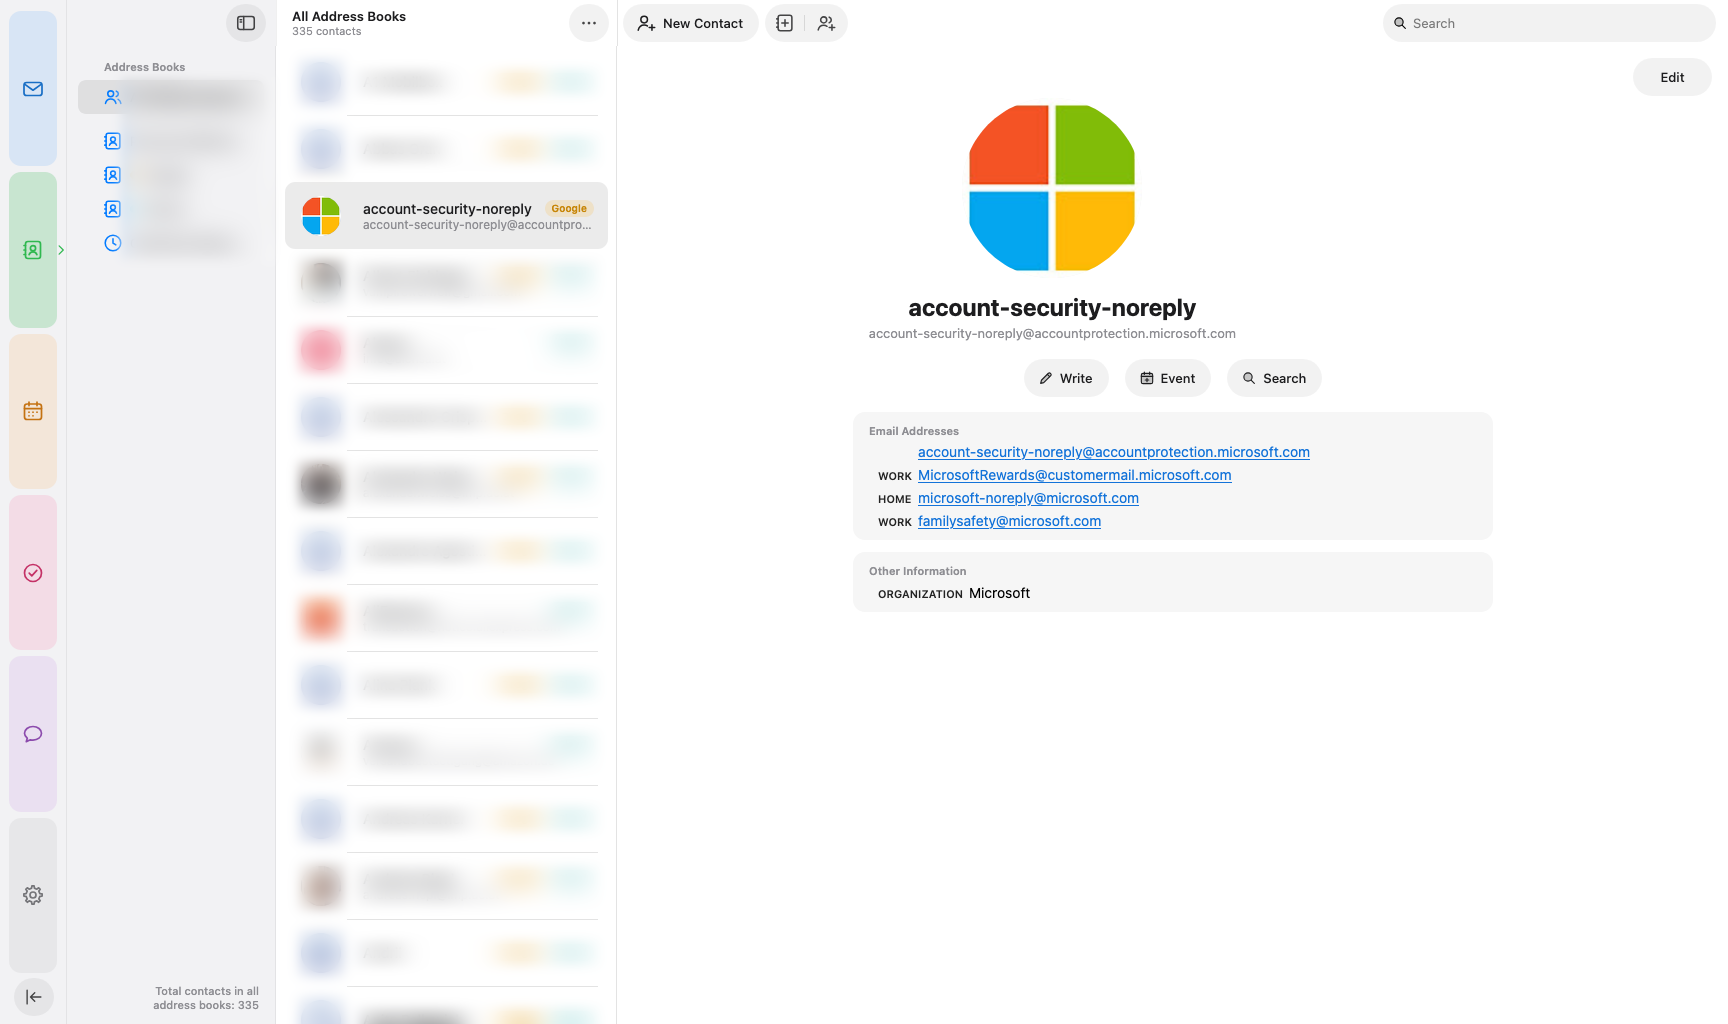
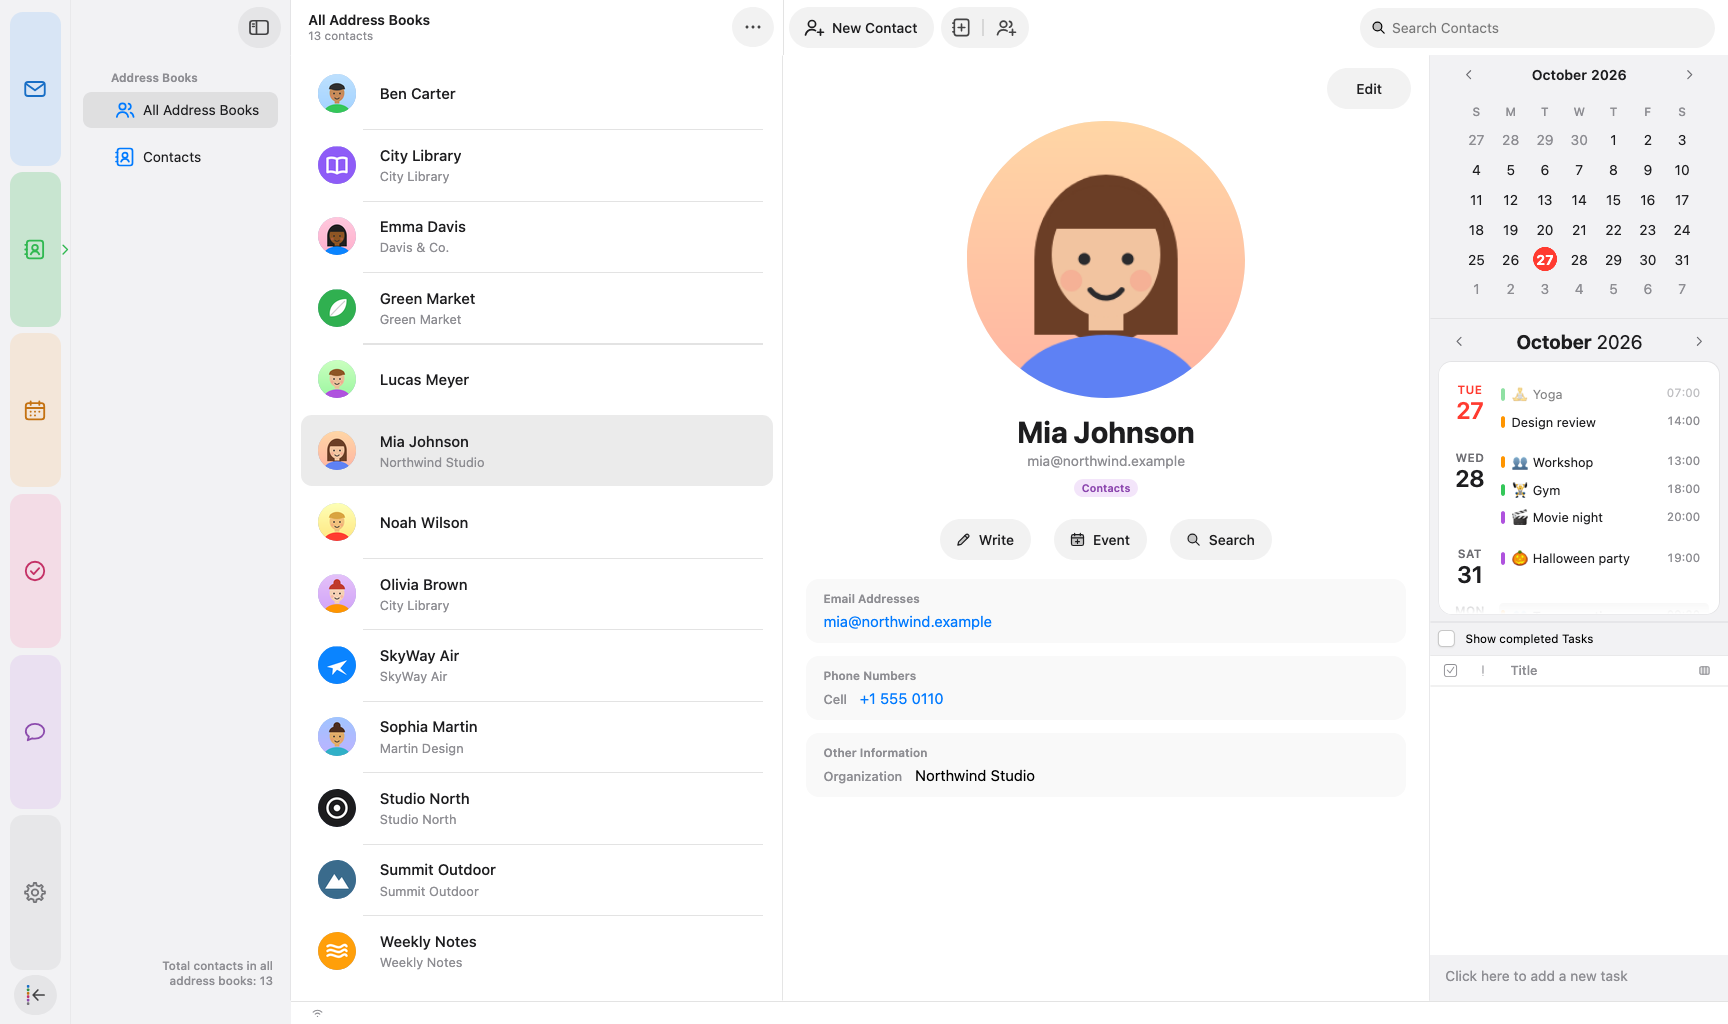
README und Store: neue Bilder aus einem Testprofil mit erfundenen Mails, Kontakten mit gezeichneten Absenderbildern und Terminen; Skript tests/store_shots.py erzeugt sie neu

diff --git a/tests/store_shots.py b/tests/store_shots.py
@@ -1,0 +1,227 @@
+#!/usr/bin/env python3
+"""Bilder für Store und README aus einem frischen Testprofil mit erfundenen,
+englischen Beispieldaten (Mails, Kontakte, Termine) – nie echte Daten.
+
+    python3 tests/store_shots.py --port 2852 [--dark] [--out /tmp/bilder]
+
+Ergebnis: mail.png, calendar.png, addressbook.png in 1728 × 1024 (README) und
+dieselben als store-*.png in 1280 × 759 (Store). Fenster 1620 × 960, das Bild
+wird auf 1728 × 1024 hochgerechnet (passt auf den 1080-px-Bildschirm des Testrechners).
+"""
+
+import argparse
+import base64
+import os
+import shutil
+import subprocess
+import sys
+import time
+
+sys.path.insert(0, os.path.dirname(os.path.abspath(__file__)))
+import halo_test as ht  # noqa: E402
+
+ROOT = os.path.dirname(os.path.dirname(os.path.abspath(__file__)))
+
+DATA_JS = r"""
+const { MailServices } = ChromeUtils.importESModule("resource:///modules/MailServices.sys.mjs");
+const { CalEvent } = ChromeUtils.importESModule("resource:///modules/CalEvent.sys.mjs");
+const { CalRecurrenceInfo } = ChromeUtils.importESModule("resource:///modules/CalRecurrenceInfo.sys.mjs");
+for (const x of [...Services.wm.getEnumerator(null)]) if (!x.location.href.includes("messenger.xhtml")) x.close();
+w.moveTo(0, 0); w.resizeTo(1620, 960); await wait(800);
+// Mails (Lokale Ordner, erfundene Absender)
+try { MailServices.accounts.localFoldersServer; } catch { MailServices.accounts.createLocalMailAccount(); await wait(500); }
+const root = MailServices.accounts.localFoldersServer.rootFolder;
+if (!root.subFolders.some(f => f.name == "Inbox")) { root.createSubfolder("Inbox", null); await wait(400); }
+const inbox = root.subFolders.find(f => f.name == "Inbox");
+inbox.setFlag(Ci.nsMsgFolderFlags.Inbox);
+const now = Date.now();
+const date = min => new Date(now - min * 60000).toUTCString().replace("GMT", "+0000");
+const mails = [
+  ["Mia Johnson <mia@northwind.example>", "Dinner on Friday?", "Hi! Are you free for dinner on Friday? I found a lovely little place near the river. Let me know and I'll book a table for seven.", 12, false],
+  ["Studio North <team@studionorth.example>", "New icons for the app", "Here are the new icons for the app. We kept them simple and calm, with a little more space around each symbol.", 48, false],
+  ["Ben Carter <ben@carter.example>", "Photos from the trip", "The photos from our trip are online now. The sunset at the lake turned out even better than I hoped.", 95, false],
+  ["SkyWay Air <trips@skyway.example>", "Your flight to Berlin", "Your booking is confirmed: Thursday, 07:10, seat 14A. Online check-in opens 24 hours before departure.", 180, true],
+  ["Olivia Brown <olivia@brown.example>", "Book club: next meeting", "The next book club meets on the 16th. We are reading a short novel this time, so there is still time to join.", 300, true],
+  ["Weekly Notes <hello@weeklynotes.example>", "Five ideas for a calm week", "A short read for your Sunday: five small ideas for a calmer, more focused week.", 520, true],
+  ["Lucas Meyer <lucas@meyer.example>", "Re: Garden project", "Sounds great. I can bring the tools on Saturday morning, around nine.", 900, true],
+  ["City Library <info@citylibrary.example>", "Your books are ready", "The books you reserved are ready for pickup at the front desk until next Tuesday.", 1500, true],
+  ["Emma Davis <emma@davis.example>", "Quick question about the offer", "Could you send me the updated offer by Wednesday? Then I can share it with the team before our call.", 2100, true],
+  ["Green Market <news@greenmarket.example>", "Fresh this week: apples and pumpkins", "Autumn is here: fresh apples, pumpkins and warm bread at the market every Saturday.", 2900, true],
+  ["Noah Wilson <noah@wilson.example>", "Running on Sunday", "Same time as last week? Meet at the park entrance at eight.", 3600, true],
+  ["Summit Outdoor <hello@summit.example>", "Your order is on its way", "Good news: your new hiking boots left our warehouse today and should arrive on Thursday.", 4400, true],
+  ["Sophia Martin <sophia@martin.example>", "Sketches for the poster", "Attached are three sketches for the poster. I like the second one best, what do you think?", 5200, true],
+];
+mails.forEach(([from, subject, body, min, read], i) => {
+  inbox.QueryInterface(Ci.nsIMsgLocalMailFolder).addMessage(
+    // (ohne eigene Trennzeile – die schreibt Thunderbird selbst)
+    `From: ${from}\r\nTo: You <you@example.invalid>\r\nSubject: ${subject}\r\nDate: ${date(min)}\r\n` +
+    `Message-ID: <store-${i}@example.invalid>\r\nContent-Type: text/plain; charset=UTF-8\r\n\r\n${body}\r\n\r\nBest,\r\n${from.split(" ")[0]}\r\n\r\n`);
+});
+await wait(800);
+for (const h of inbox.messages) {
+  const m = mails.find(x => x[1] == h.mime2DecodedSubject);
+  if (m && m[4]) h.markRead(true);
+}
+// Kontakte mit Bild: Personen als gezeichnete Gesichter, erfundene Firmen mit
+// einfachem eigenem Logo – alles selbst gezeichnet (keine echten Fotos, keine echten Marken)
+const { VCardUtils } = ChromeUtils.importESModule("resource:///modules/VCardUtils.sys.mjs");
+const book = MailServices.ab.directories.find(b => b.dirPrefId == "ldap_2.servers.pab") || MailServices.ab.directories[0];
+const X = "http://www.w3.org/1999/xhtml";
+const canvas = () => { const c = d.createElementNS(X, "canvas"); c.width = c.height = 256; return c; };
+const face = ([bg1, bg2, skin, hair, style, shirt]) => {
+  const c = canvas(), g = c.getContext("2d");
+  const grad = g.createLinearGradient(0, 0, 0, 256); grad.addColorStop(0, bg1); grad.addColorStop(1, bg2);
+  g.fillStyle = grad; g.fillRect(0, 0, 256, 256);
+  if (style == "long") { g.fillStyle = hair; g.beginPath(); g.ellipse(128, 128, 66, 78, 0, 0, Math.PI * 2); g.fill(); g.fillRect(62, 128, 132, 70); }
+  g.fillStyle = shirt; g.beginPath(); g.ellipse(128, 262, 92, 64, 0, 0, Math.PI * 2); g.fill();
+  g.fillStyle = skin; g.fillRect(112, 160, 32, 34); g.beginPath(); g.ellipse(128, 124, 50, 58, 0, 0, Math.PI * 2); g.fill();
+  g.fillStyle = hair; g.beginPath();
+  if (style == "bun") { g.arc(128, 58, 24, 0, Math.PI * 2); g.fill(); g.beginPath(); }
+  g.ellipse(128, 100, 54, 40, 0, Math.PI, Math.PI * 2); g.fill();
+  if (style == "short") { g.beginPath(); g.ellipse(128, 86, 50, 22, 0, 0, Math.PI * 2); g.fill(); }
+  g.fillStyle = "#2b2b2e"; for (const x of [108, 148]) { g.beginPath(); g.arc(x, 128, 5.5, 0, Math.PI * 2); g.fill(); }
+  g.strokeStyle = "#2b2b2e"; g.lineWidth = 5; g.lineCap = "round"; g.beginPath(); g.arc(128, 146, 18, 0.2 * Math.PI, 0.8 * Math.PI); g.stroke();
+  g.fillStyle = "rgba(255,120,120,0.25)"; for (const x of [96, 160]) { g.beginPath(); g.arc(x, 148, 10, 0, Math.PI * 2); g.fill(); }
+  return c.toDataURL("image/png");
+};
+const logo = (bg, draw) => {
+  const c = canvas(), g = c.getContext("2d");
+  g.fillStyle = bg; g.fillRect(0, 0, 256, 256);
+  g.fillStyle = "#fff"; g.strokeStyle = "#fff"; g.lineWidth = 16; g.lineCap = "round"; g.lineJoin = "round";
+  draw(g); return c.toDataURL("image/png");
+};
+const glyphs = {
+  studio: g => { g.beginPath(); g.arc(128, 128, 64, 0, Math.PI * 2); g.stroke(); g.beginPath(); g.arc(128, 128, 22, 0, Math.PI * 2); g.fill(); },
+  plane: g => { g.beginPath(); g.moveTo(60, 140); g.lineTo(196, 96); g.lineTo(150, 150); g.lineTo(196, 196); g.lineTo(128, 160); g.lineTo(96, 196); g.lineTo(100, 150); g.closePath(); g.fill(); },
+  notes: g => { for (const y of [96, 128, 160]) { g.beginPath(); g.moveTo(64, y); g.bezierCurveTo(96, y - 24, 128, y + 24, 160, y); g.bezierCurveTo(176, y - 12, 186, y - 12, 192, y); g.stroke(); } },
+  library: g => { g.beginPath(); g.moveTo(128, 88); g.lineTo(128, 184); g.moveTo(128, 88); g.quadraticCurveTo(96, 72, 64, 84); g.lineTo(64, 176); g.quadraticCurveTo(96, 166, 128, 184);
+    g.moveTo(128, 88); g.quadraticCurveTo(160, 72, 192, 84); g.lineTo(192, 176); g.quadraticCurveTo(160, 166, 128, 184); g.stroke(); },
+  market: g => { g.beginPath(); g.moveTo(80, 184); g.bezierCurveTo(70, 110, 130, 64, 192, 68); g.bezierCurveTo(196, 140, 150, 190, 80, 184); g.fill();
+    g.strokeStyle = "rgba(0,0,0,0.18)"; g.lineWidth = 8; g.beginPath(); g.moveTo(84, 180); g.quadraticCurveTo(130, 130, 180, 82); g.stroke(); },
+  summit: g => { g.beginPath(); g.moveTo(48, 188); g.lineTo(110, 92); g.lineTo(140, 136); g.lineTo(160, 112); g.lineTo(208, 188); g.closePath(); g.fill(); },
+};
+const people = [
+  ["Mia", "Johnson", "mia@northwind.example", "Northwind Studio", ["#FFD6A5", "#FFB4A2", "#F2C4A0", "#6B3E26", "long", "#5E81F4"]],
+  ["Ben", "Carter", "ben@carter.example", "", ["#BDE0FE", "#A2D2FF", "#C68B59", "#2E2E2E", "short", "#34C759"]],
+  ["Olivia", "Brown", "olivia@brown.example", "City Library", ["#E4C1F9", "#D0A2F7", "#F5D1B5", "#C0392B", "bun", "#FF9500"]],
+  ["Lucas", "Meyer", "lucas@meyer.example", "", ["#CAFFBF", "#9BF6A0", "#EAC09A", "#8D5524", "short", "#AF52DE"]],
+  ["Emma", "Davis", "emma@davis.example", "Davis & Co.", ["#FFC8DD", "#FFAFCC", "#8D5524", "#1F1F1F", "long", "#0A84FF"]],
+  ["Noah", "Wilson", "noah@wilson.example", "", ["#FDFFB6", "#FFE680", "#F1C27D", "#D9A441", "short", "#FF3B30"]],
+  ["Sophia", "Martin", "sophia@martin.example", "Martin Design", ["#A0C4FF", "#BDB2FF", "#E0AC69", "#4A2C1D", "bun", "#30B0C7"]],
+];
+const companies = [
+  ["Studio North", "team@studionorth.example", logo("#1C1C1E", glyphs.studio)],
+  ["SkyWay Air", "trips@skyway.example", logo("#0A84FF", glyphs.plane)],
+  ["Weekly Notes", "hello@weeklynotes.example", logo("#FF9F0A", glyphs.notes)],
+  ["City Library", "info@citylibrary.example", logo("#8E5CF7", glyphs.library)],
+  ["Green Market", "news@greenmarket.example", logo("#30B050", glyphs.market)],
+  ["Summit Outdoor", "hello@summit.example", logo("#3A6B8C", glyphs.summit)],
+];
+const addCard = lines => book.addCard(VCardUtils.vCardToAbCard(["BEGIN:VCARD", "VERSION:4.0", ...lines, "END:VCARD"].join("\r\n")));
+for (const [first, last, mail, org, look] of people) {
+  addCard([`FN:${first} ${last}`, `N:${last};${first};;;`, `EMAIL;PREF=1:${mail}`, ...(org ? [`ORG:${org}`] : []),
+           "TEL;TYPE=cell:+1 555 01" + String(10 + people.findIndex(p => p[0] == first)), `PHOTO:${face(look)}`]);
+}
+for (const [org, mail, photo] of companies) {
+  addCard([`FN:${org}`, `ORG:${org}`, `EMAIL;PREF=1:${mail}`, `PHOTO:${photo}`]);
+}
+// Kalender: Personal, Work, Family mit englischen Terminen (Emojis aus den Stichwörtern)
+// Thunderbirds Standardkalender wird „Personal“ (bleibt der gewählte, beschreibbare Kalender)
+const mk = (name, color) => { const c = cal.manager.createCalendar("storage", Services.io.newURI("moz-storage-calendar://")); c.name = name; c.setProperty("color", color); cal.manager.registerCalendar(c); return c; };
+const home = cal.manager.getCalendars().find(c => c.type == "storage") || mk("Personal", "#34C759");
+home.name = "Personal"; home.setProperty("color", "#34C759"); home.setProperty("disabled", false);
+const work = mk("Work", "#FF9500"), fam = mk("Family", "#AF52DE");
+const t0 = cal.dtz.now();
+const at = (d, h, m = 0) => { const t = t0.clone(); t.day = d; t.hour = h; t.minute = m; t.second = 0; return t; };
+const day = d => { const t = t0.clone(); t.day = d; t.isDate = true; return t; };
+const ev = async (c, title, s, e, rrule) => { const x = new CalEvent(); x.title = title; x.startDate = s; x.endDate = e;
+  if (rrule) { x.recurrenceInfo = new CalRecurrenceInfo(x); x.recurrenceInfo.appendRecurrenceItem(cal.createRecurrenceRule(rrule)); }
+  return c.addItem(x); };
+const monday = (() => { for (let d = 1; d <= 7; d++) { const t = t0.clone(); t.day = d; if (t.weekday == 1) return d; } return 1; })();
+await ev(work, "Team meeting", at(monday, 9, 30), at(monday, 10, 30), "RRULE:FREQ=WEEKLY;COUNT=6");
+await ev(home, "Yoga", at(monday + 1, 7), at(monday + 1, 8), "RRULE:FREQ=WEEKLY;COUNT=6");
+await ev(home, "Tennis", at(monday + 3, 18), at(monday + 3, 19, 30), "RRULE:FREQ=WEEKLY;INTERVAL=2;COUNT=3");
+await ev(fam, "Anna's birthday", day(3), day(4));
+await ev(home, "Dentist", at(6, 8, 30), at(6, 9, 15));
+await ev(work, "Flight to Berlin", at(8, 7, 10), at(8, 8, 25));
+await ev(work, "Workshop in Berlin", day(8), day(10));
+await ev(work, "Lunch with Ben", at(13, 12, 30), at(13, 13, 30));
+await ev(home, "Haircut", at(14, 17), at(14, 17, 45));
+await ev(fam, "Concert", at(16, 20), at(16, 22, 30));
+await ev(work, "Call with the client", at(20, 15), at(20, 15, 45));
+await ev(home, "Coffee with Mia", at(21, 10), at(21, 11));
+await ev(home, "Doctor", at(22, 11), at(22, 11, 30));
+await ev(fam, "Dinner with friends", at(23, 19, 30), at(23, 22));
+await ev(fam, "Shopping", at(24, 10), at(24, 11, 30));
+await ev(work, "Workshop", at(Math.min(t0.day + 1, 28), 13), at(Math.min(t0.day + 1, 28), 16));
+await ev(fam, "Movie night", at(Math.min(t0.day + 2, 28), 20), at(Math.min(t0.day + 2, 28), 22));
+await ev(home, "Gym", at(Math.min(t0.day + 3, 28), 18), at(Math.min(t0.day + 3, 28), 19));
+await ev(fam, "Halloween party", at(31, 19), at(31, 23));
+await ev(home, "Vacation", day(17), day(20));
+await ev(work, "Design review", at(t0.day, 14), at(t0.day, 15));
+return { mails: inbox.getTotalMessages(false), contacts: book.childCards.length };
+"""
+
+SNAP_JS = r"""
+const bmp = await w.browsingContext.currentWindowGlobal.drawSnapshot(null, 1728 / w.innerWidth, "white");
+const c = d.createElementNS("http://www.w3.org/1999/xhtml", "canvas"); c.width = bmp.width; c.height = bmp.height;
+c.getContext("2d").drawImage(bmp, 0, 0);
+return c.toDataURL("image/png");
+"""
+
+SHOTS = [
+    ("mail", r"""
+      const a3 = await toMail();
+      const { MailServices } = ChromeUtils.importESModule("resource:///modules/MailServices.sys.mjs");
+      const inbox = MailServices.accounts.localFoldersServer.rootFolder.getFolderWithFlags(Ci.nsMsgFolderFlags.Inbox);
+      a3.displayFolder(inbox.URI); await wait(1500);
+      for (let i = 0; i < a3.gDBView.rowCount; i++) if (a3.gDBView.getMsgHdrAt(i).mime2DecodedSubject == "Photos from the trip") a3.threadTree.selectedIndex = i;
+      await wait(2500); a3.threadTree.focus(); await wait(400);"""),
+    ("calendar", r"""
+      tm.openTab("calendar", {}); await wait(2000); w.switchCalendarView("month", true); await wait(2500); w.currentView().goToDay(cal.dtz.now()); await wait(1500);"""),
+    ("addressbook", r"""
+      tm.openTab("addressBookTab", {}); await wait(2500);
+      const ab = tm.currentTabInfo.browser.contentWindow;
+      const list = ab.document.getElementById("cards");
+      for (let i = 0; i < (list?.view?.rowCount || 0); i++) { if (list.view.getCardFromRow(i)?.displayName == "Mia Johnson") { list.selectedIndex = i; break; } }
+      await wait(2000);"""),
+]
+
+
+def main():
+    ap = argparse.ArgumentParser(description="Bilder für Store und README (Testprofil, erfundene Daten)")
+    ap.add_argument("--port", type=int, default=2852)
+    ap.add_argument("--dark", action="store_true")
+    ap.add_argument("--xpi", default=None)
+    ap.add_argument("--out", default="/tmp/halo-store-bilder")
+    args = ap.parse_args()
+    import glob
+    xpi = args.xpi or max((x for x in glob.glob(os.path.join(ROOT, "dist", "halo-spaces-*.xpi")) if not x.endswith("-atn.xpi")),
+                          key=os.path.getmtime)
+    os.makedirs(args.out, exist_ok=True)
+    profile = ht.create_profile(xpi, args.port, args.dark, prefix="halo-store-")
+    proc = ht.start_thunderbird(ht.DEFAULT_TB, profile)
+    try:
+        if not ht.wait_port(args.port):
+            sys.exit("Thunderbird hat Marionette nicht geöffnet")
+        time.sleep(8)
+        m = ht.Marionette(args.port)
+        m.cmd("WebDriver:SetTimeouts", {"script": 120000})
+        print("Daten:", m.js(DATA_JS), flush=True)
+        m.js("await wait(3000); return 1;")
+        prefix = "dunkel-" if args.dark else ""
+        for name, js in SHOTS:
+            data = m.js(js + SNAP_JS)
+            path = os.path.join(args.out, f"{prefix}{name}.png")
+            with open(path, "wb") as f:
+                f.write(base64.b64decode(data.split(",", 1)[1]))
+            store = os.path.join(args.out, f"{prefix}store-{name}.png")
+            subprocess.run(["sips", "-z", "759", "1280", path, "--out", store], capture_output=True, check=True)
+            print("Bild:", path, flush=True)
+    finally:
+        ht.stop_thunderbird(args.port, proc)
+        shutil.rmtree(profile, ignore_errors=True)
+
+
+if __name__ == "__main__":
+    main()

diff --git a/AGENTS.md b/AGENTS.md
@@ -27,6 +27,7 @@ kann. Ziel ist macOS; Windows/Linux laufen mit, sind aber nicht der Schwerpunkt.
 | `tests/halo_test.py` | automatischer Test per Marionette in frischem Profil |
 | `tests/testserver.py` | lokaler IMAP-/SMTP-Testserver (nur 127.0.0.1, erfundene Daten) für die Prüfungen mit Testkonto |
 | `tests/ui_tour.py` | Rundgang: Bilder aller Oberflächen (Design-Durchsicht) |
+| `tests/store_shots.py` | Bilder für README und Store aus frischem Testprofil (erfundene englische Mails, Kontakte mit gezeichneten Bildern, Termine) |
 | `tests/beta.sh` | gleicher Test mit Thunderbird Beta |
 | `tests/mac-mini-setup.sh`, `tests/mac-runner-hook.sh`, `tests/MAC-MINI.md` | Mac mini als Testrechner: Prüfen/Einrichten, Wächter für den GitHub-Runner, Anleitung |
 | `tests/win-vm-setup.ps1` | Windows-Seite der Test-VM (Energie, Sperre, Thunderbird, Python), aufgerufen von `mac-mini-setup.sh` |

diff --git a/store/README.md b/store/README.md
@@ -19,7 +19,7 @@ ready to paste; the package is `dist/halo-spaces-<version>-atn.xpi`
 | License | Mozilla Public License 2.0 |
 | Privacy policy | `privacy-en.md` (required: the add-on loads sender logos) |
 | Notes to reviewer | `reviewer-notes.md` |
-| Screenshots | `shot-mail.png`, `shot-calendar.png`, `shot-addressbook.png`, `shot-quick-event.png` (1280 px wide, personal data blurred) |
+| Screenshots | `shot-mail.png`, `shot-calendar.png`, `shot-addressbook.png`, `shot-quick-event.png` (1280 px wide, made-up test data; `python3 tests/store_shots.py` recreates them) |
 | Icon | `../extension/about/icon.svg` (export as 128×128 PNG: `store/icon-128.png`) |
 
 Later versions: `./publish.sh <version> notes.md` also uploads the store

diff --git a/README.md b/README.md
@@ -47,7 +47,7 @@ Features
   <img src="screenshots/quick-event.png" alt="Quick event window" width="320">
 </p>
 
-The calendar shows made-up test data; personal data in the other screenshots is blurred.
+All screenshots show made-up test data.
 
 3.7.0 Release Notes
 --------
